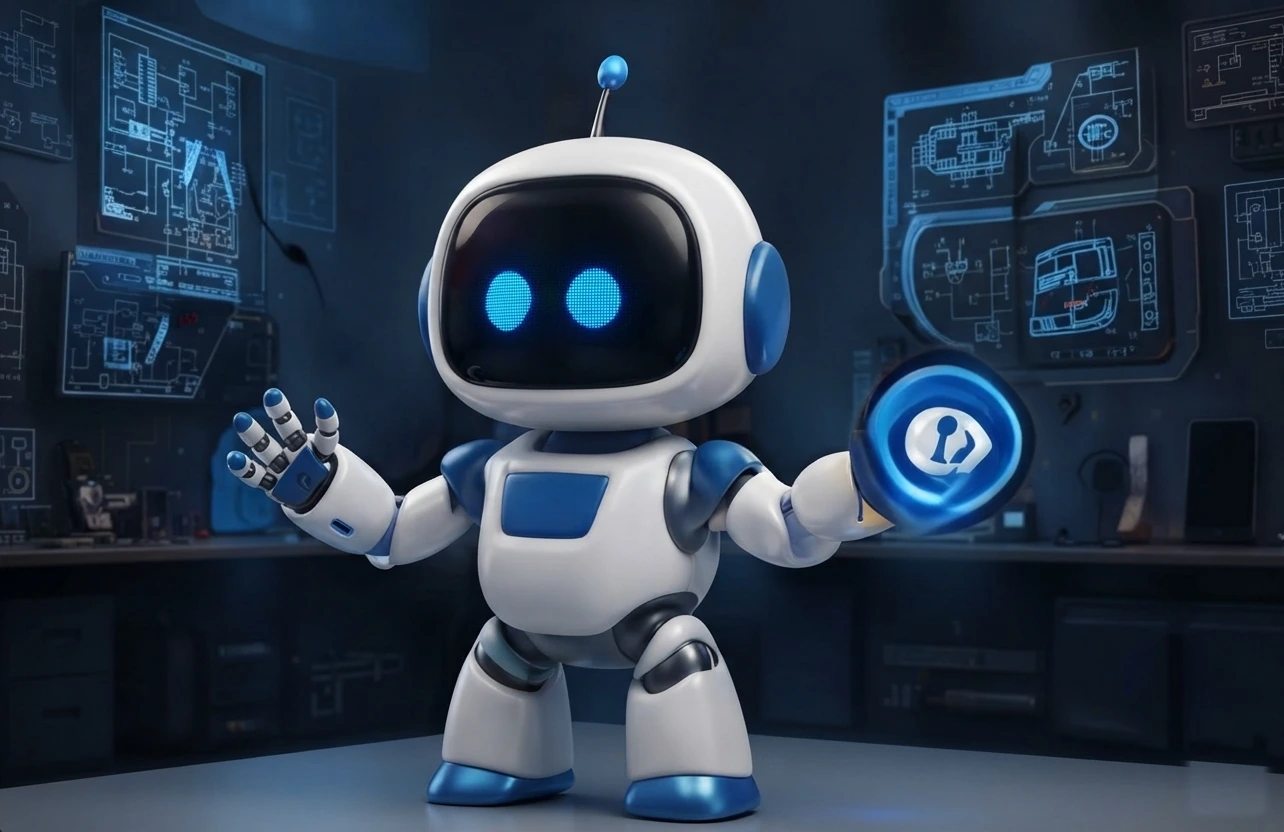
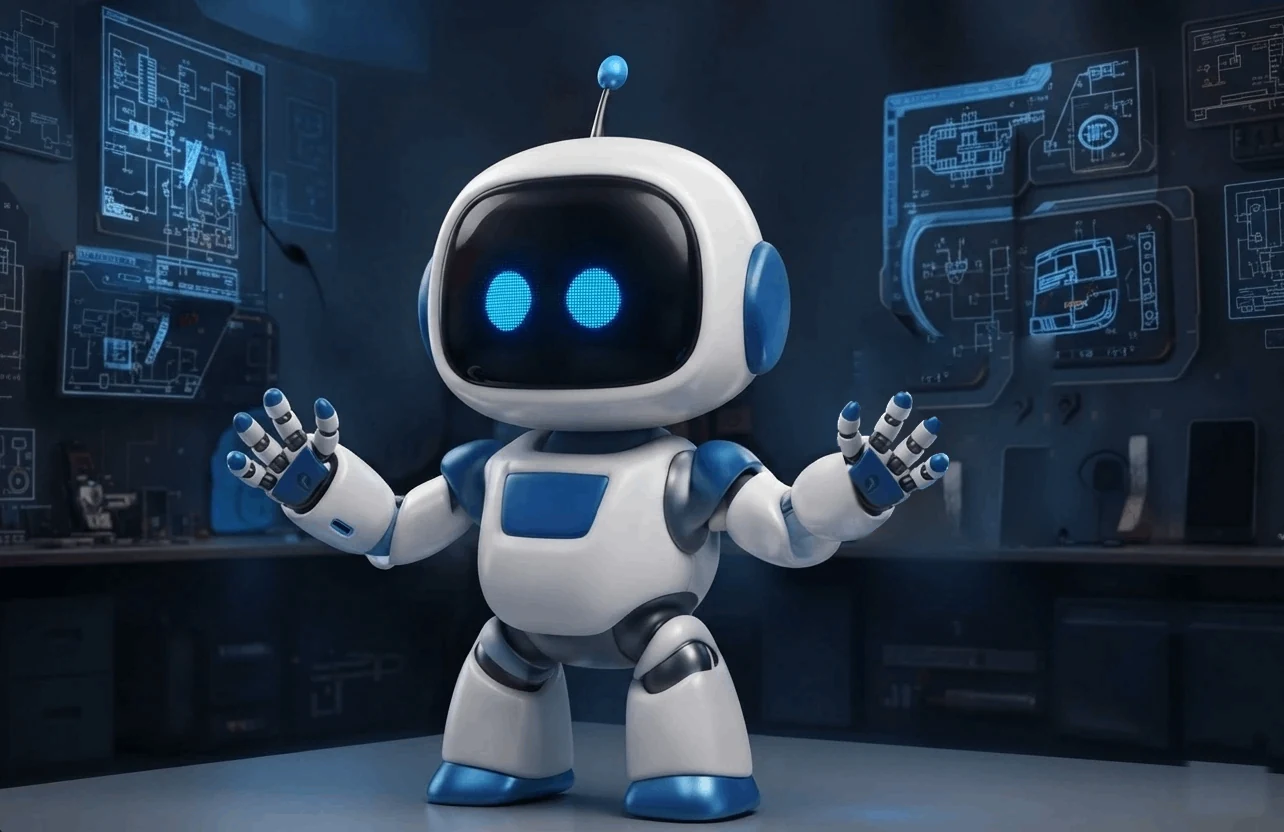
Replace gallery thumb-5 and thumb-6 with new high-resolution images

Changed region(s): [[0.6542, 0.4062, 0.8411, 0.6562]]

diff --git a/artifacts/astrobot/src/components/GallerySection.tsx b/artifacts/astrobot/src/components/GallerySection.tsx
@@ -14,8 +14,8 @@ const galleryImages = [
   { src: thumb2, alt: 'AstroBot in the lab' },
   { src: thumb3, alt: 'AstroBot in the electronics workshop' },
   { src: thumb4, alt: 'AstroBot on the workbench' },
-  { src: thumb5, alt: 'AstroBot showing a hologram' },
-  { src: thumb6, alt: 'AstroBot ready for adventure' },
+  { src: thumb5, alt: 'AstroBot greeting with open hands' },
+  { src: thumb6, alt: 'AstroBot at the repair bench' },
 ];
 
 export const GallerySection = () => {
